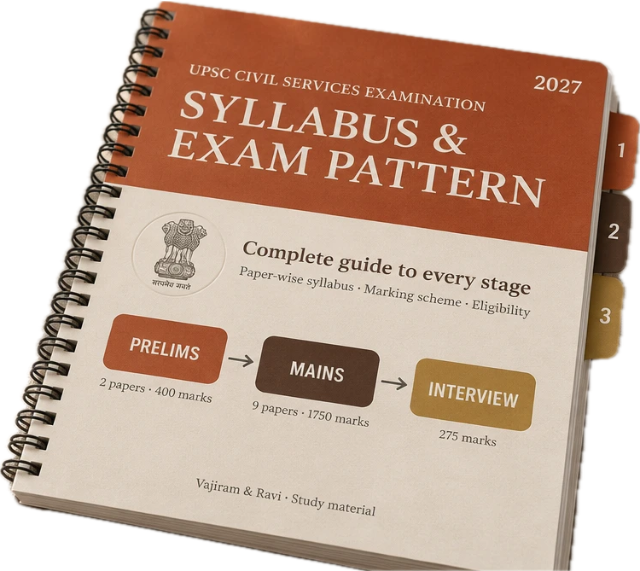
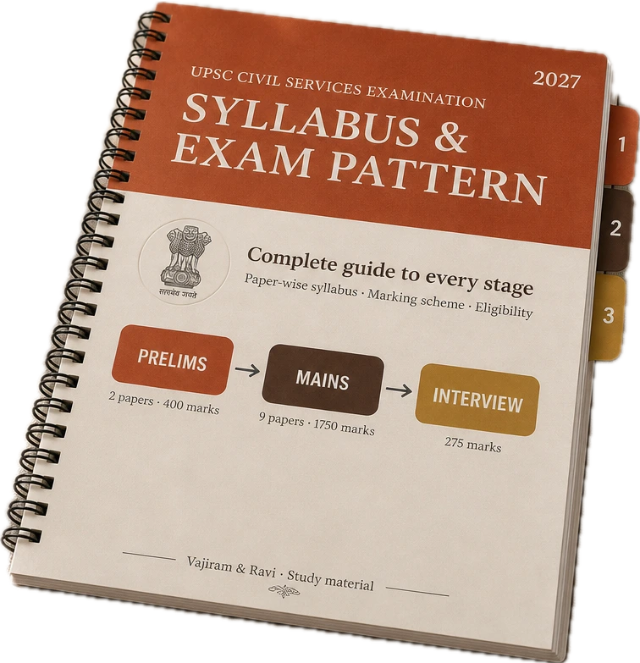
Free resources: new, uncropped pictures for GS Postal Books, Previous Year Papers and Syllabus & Exam Pattern

diff --git a/index.html b/index.html
@@ -308,17 +308,17 @@
         <p class="sm__d">UPSC current affairs monthly material, free to download.</p>
         <a class="tlink sm__act" href="#" data-rs>Download this month<svg viewBox="0 0 16 16" width="18" height="18" aria-hidden="true"><path d="M2.5 8h11"/><path d="M8.6 3.6C9.4 5.9 11.2 7.4 13.5 8 11.2 8.6 9.4 10.1 8.6 12.4"/></svg></a>
       </li>
-      <li class="sm__card sm__card--res"><figure class="sm__pic" aria-hidden="true"><img src="assets/img/resources/cutout/previous-year-papers.png" alt="" width="640" height="546" loading="lazy" decoding="async"></figure>
+      <li class="sm__card sm__card--res"><figure class="sm__pic" aria-hidden="true"><img src="assets/img/resources/cutout/previous-year-papers.png?v=2" alt="" width="640" height="595" loading="lazy" decoding="async"></figure>
         <h3 class="sm__t">Previous Year Papers</h3>
         <p class="sm__d">Prelims and Mains papers, with the UPSC answer key.</p>
         <a class="tlink sm__act" href="#" data-rs>Browse papers<svg viewBox="0 0 16 16" width="18" height="18" aria-hidden="true"><path d="M2.5 8h11"/><path d="M8.6 3.6C9.4 5.9 11.2 7.4 13.5 8 11.2 8.6 9.4 10.1 8.6 12.4"/></svg></a>
       </li>
-      <li class="sm__card sm__card--res"><figure class="sm__pic" aria-hidden="true"><img src="assets/img/resources/cutout/syllabus-exam-pattern.png" alt="" width="640" height="571" loading="lazy" decoding="async"></figure>
+      <li class="sm__card sm__card--res"><figure class="sm__pic" aria-hidden="true"><img src="assets/img/resources/cutout/syllabus-exam-pattern.png?v=2" alt="" width="640" height="663" loading="lazy" decoding="async"></figure>
         <h3 class="sm__t">Syllabus &amp; Exam Pattern</h3>
         <p class="sm__d">What is asked at each stage, and how it is marked.</p>
         <a class="tlink sm__act" href="#" data-rs>Read the guide<svg viewBox="0 0 16 16" width="18" height="18" aria-hidden="true"><path d="M2.5 8h11"/><path d="M8.6 3.6C9.4 5.9 11.2 7.4 13.5 8 11.2 8.6 9.4 10.1 8.6 12.4"/></svg></a>
       </li>
-      <li class="sm__card sm__card--res"><figure class="sm__pic" aria-hidden="true"><img src="assets/img/resources/cutout/gs-postal-books.png" alt="" width="640" height="502" loading="lazy" decoding="async"></figure>
+      <li class="sm__card sm__card--res"><figure class="sm__pic" aria-hidden="true"><img src="assets/img/resources/cutout/gs-postal-books.png?v=2" alt="" width="640" height="624" loading="lazy" decoding="async"></figure>
         <h3 class="sm__t">GS Postal Books</h3>
         <p class="sm__d">Printed General Studies material for UPSC preparation.</p>
         <a class="tlink sm__act" href="#" data-rs>Buy now<svg viewBox="0 0 16 16" width="18" height="18" aria-hidden="true"><path d="M2.5 8h11"/><path d="M8.6 3.6C9.4 5.9 11.2 7.4 13.5 8 11.2 8.6 9.4 10.1 8.6 12.4"/></svg></a>
